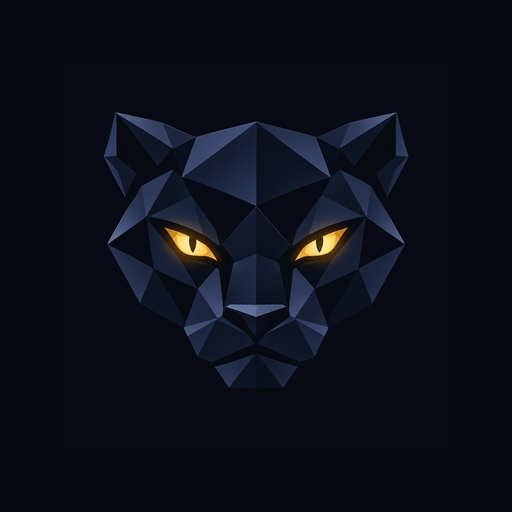
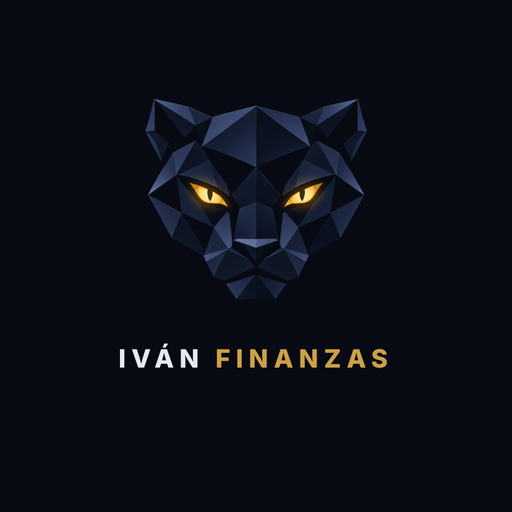
Ícono maskable con pantera + nombre (Android lo usa en el arranque)
Claude-Session: https://claude.ai/code/session_019ADEvJKmEoA5rpyyFfjPYD

Changed region(s): [[0.1875, 0.1875, 0.8125, 0.75]]

diff --git a/ivan-finanzas/sw.js b/ivan-finanzas/sw.js
@@ -1,6 +1,6 @@
 /* Iván Finanzas — service worker: la app abre sin internet y se actualiza sola.
    Tus datos NO viven aquí (siguen en el almacenamiento del navegador); esto solo guarda los archivos de la app. */
-const CACHE = 'if-app-v5.8.12';
+const CACHE = 'if-app-v5.8.13';
 const ARCHIVOS = ['./', './index.html', './manifest.json', './icon-192.png', './icon-512.png',
   './icon-maskable-512.png', './favicon-64.png', './apple-touch-icon.png'];
 
